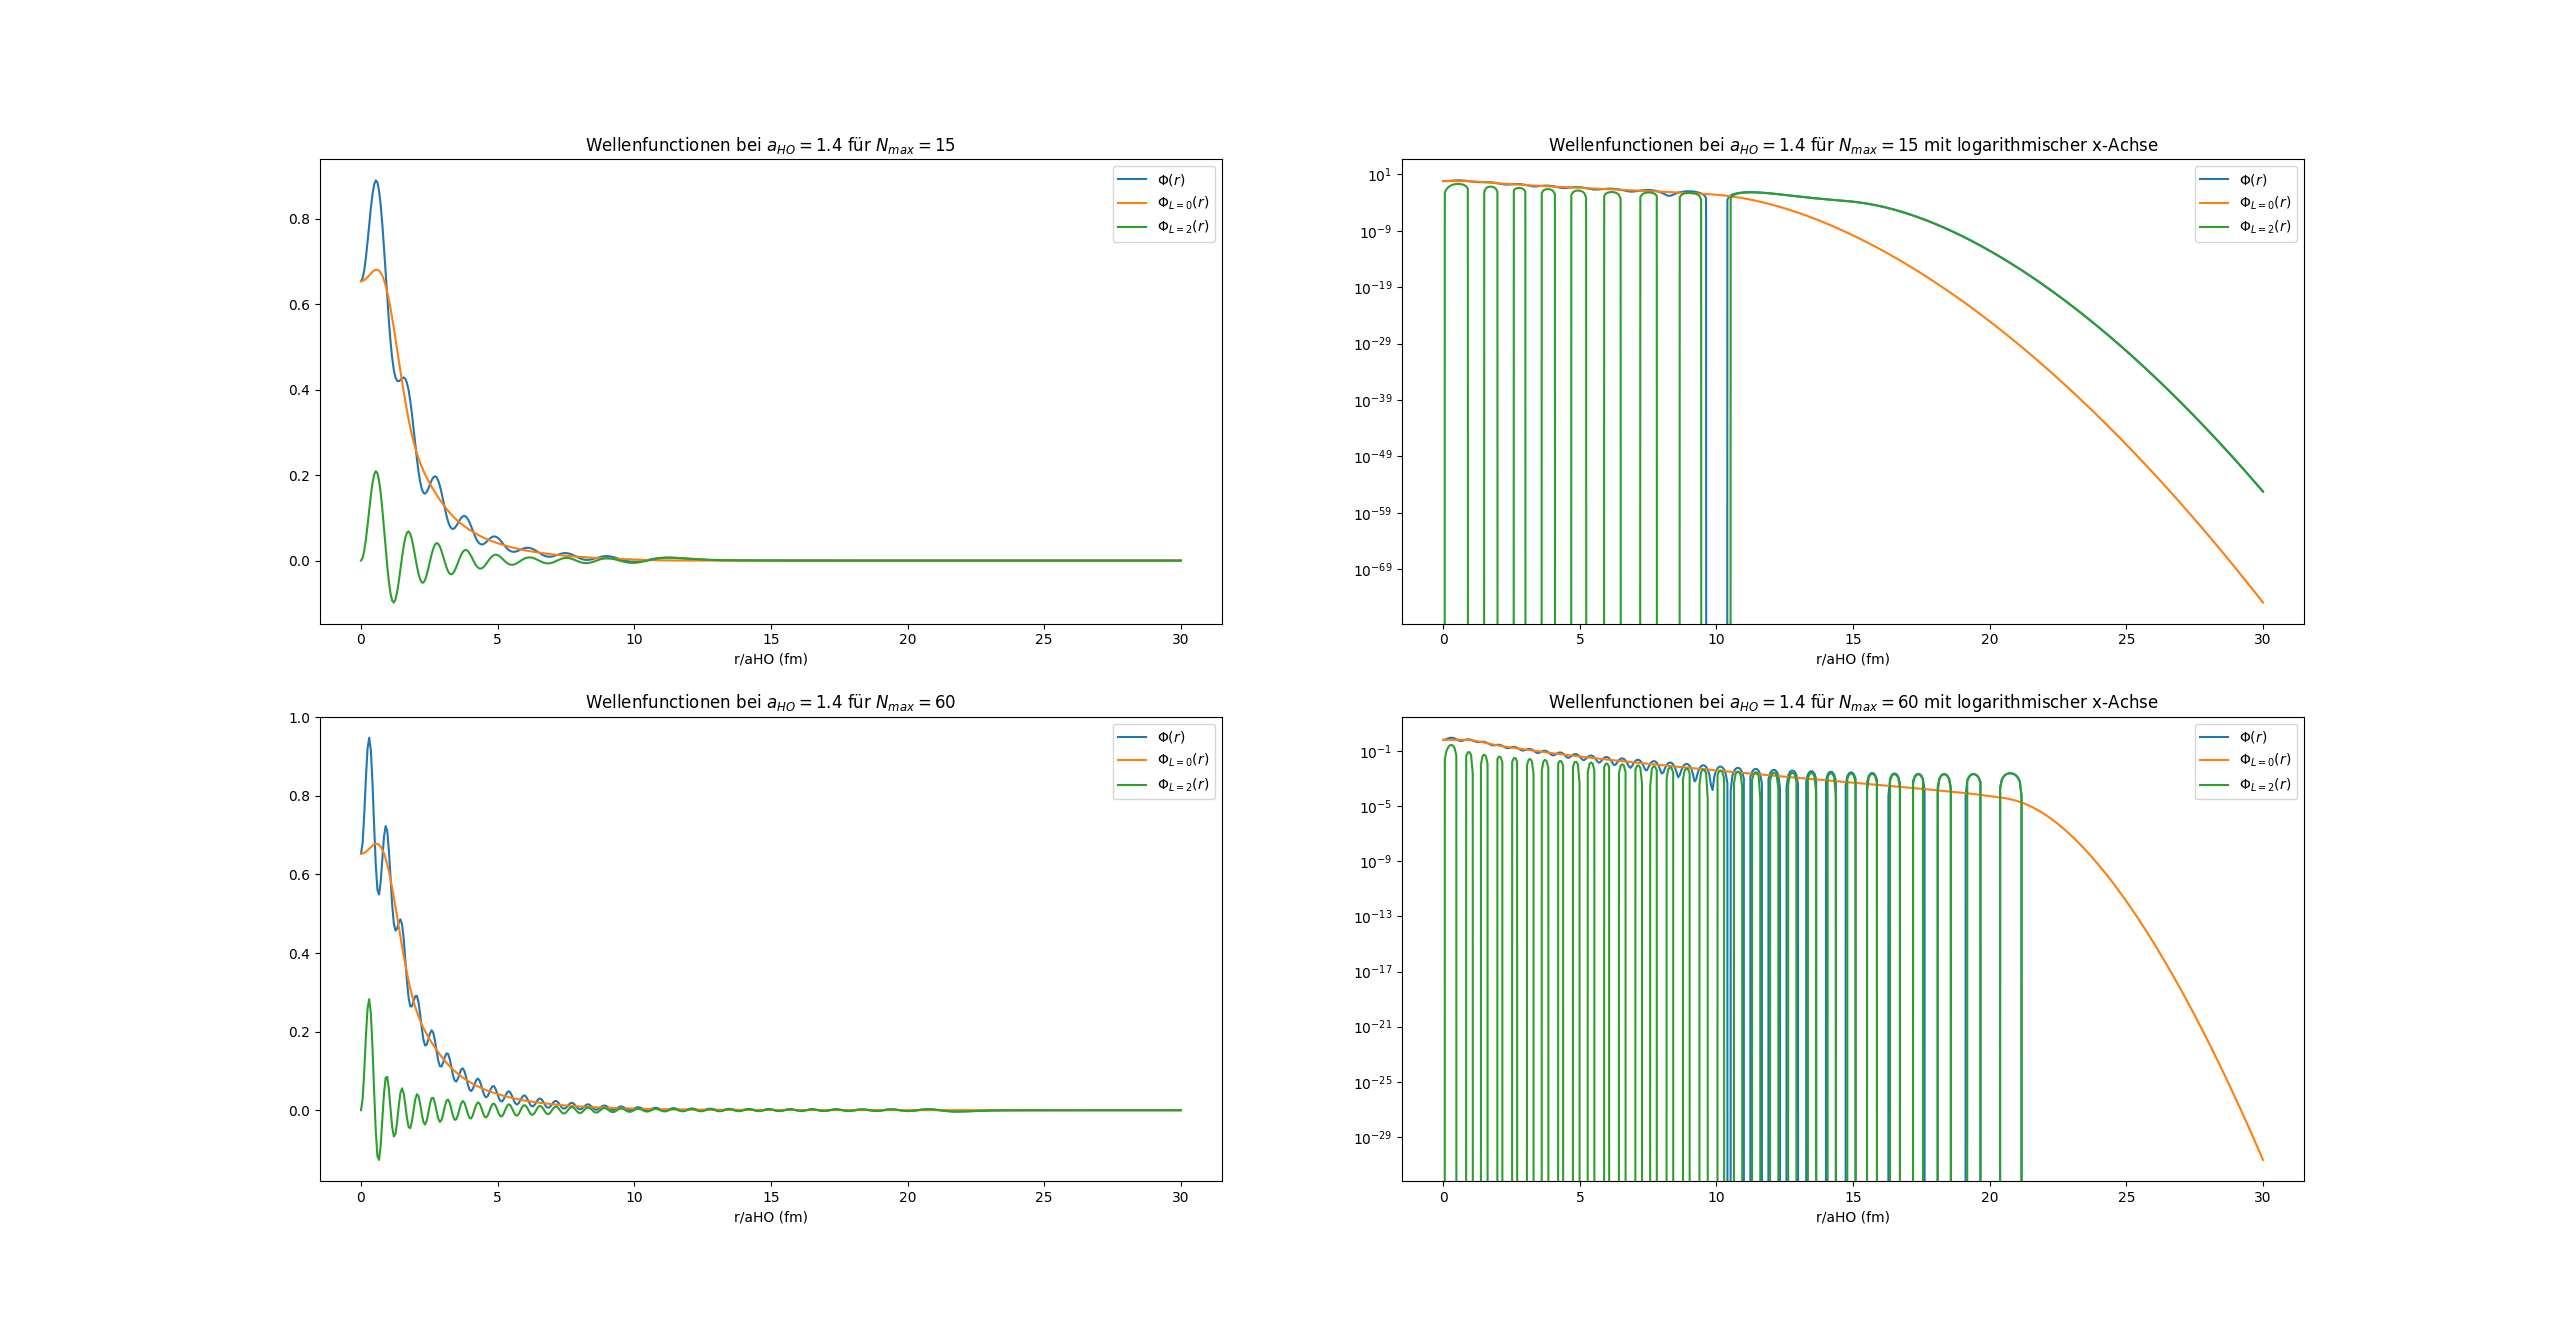
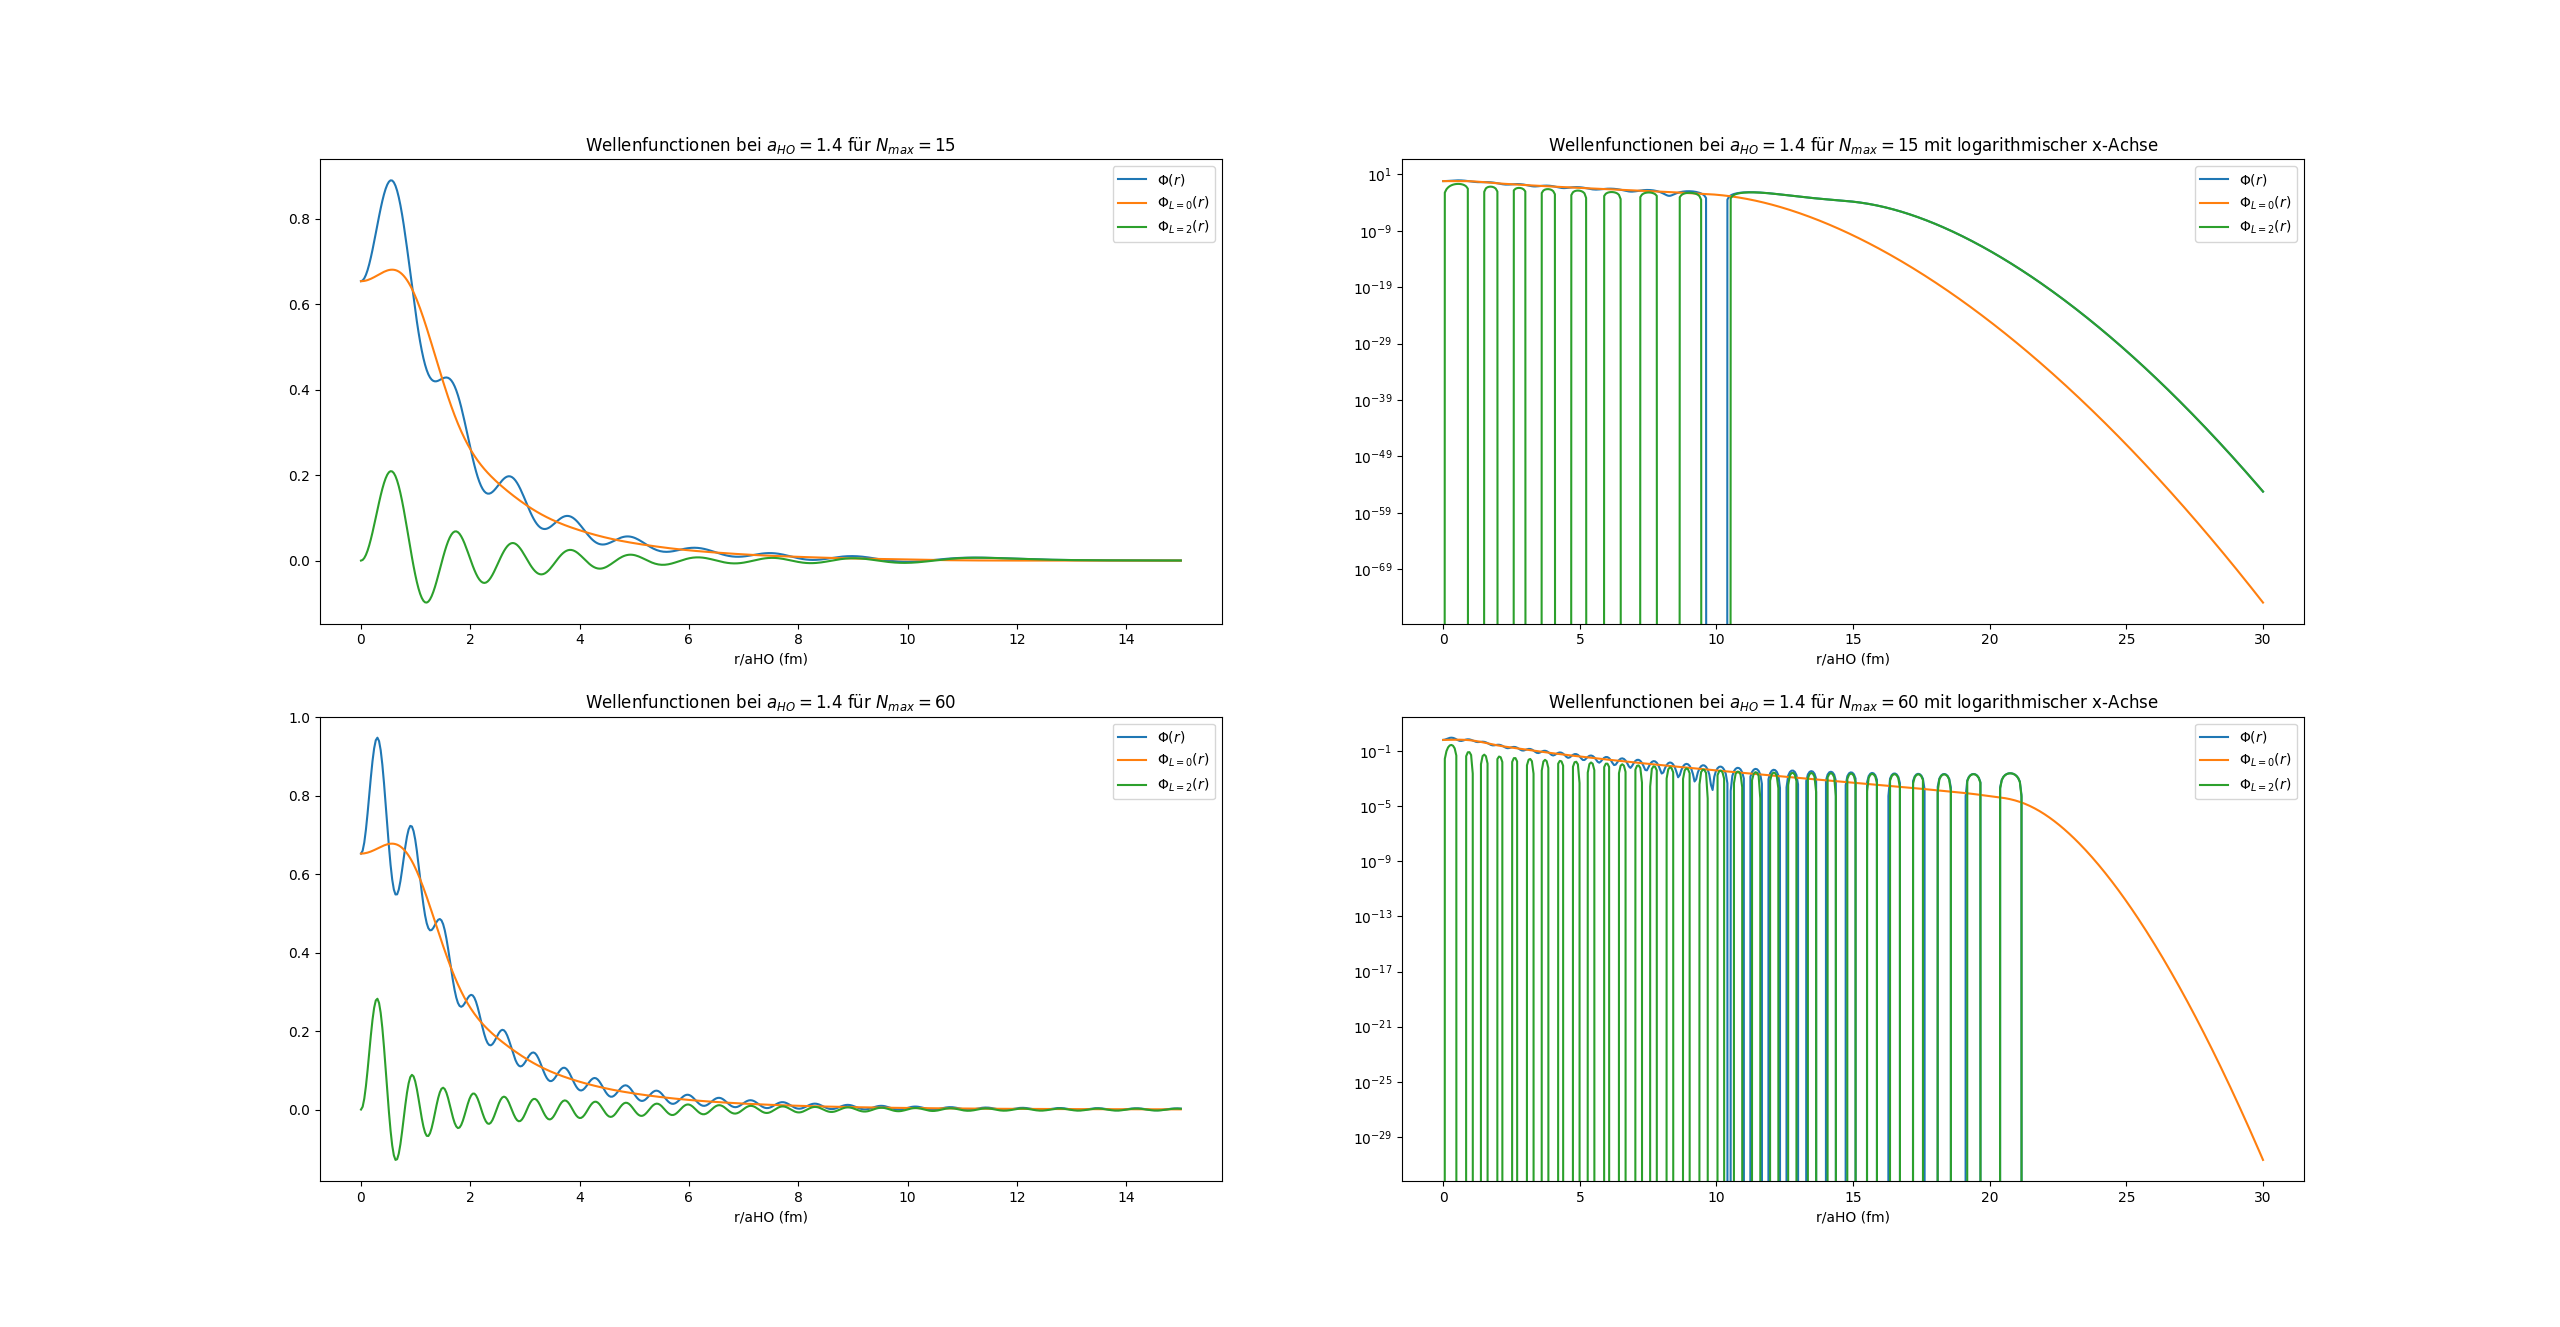
new plot and integration test

diff --git a/position-space_wavefunc.py b/position-space_wavefunc.py
@@ -1,6 +1,7 @@
 import numpy as np
 from matplotlib import pyplot as plt
 from scipy.special import genlaguerre, gamma
+from scipy.integrate import quad
 from create_matrix import mat
 from sys import exit
 
@@ -59,9 +60,15 @@ def deuteron_wavefunc(Nmax, aHO, r):
 
 
 plt.figure()
-x_model = np.linspace(0, 30, 500)
+
+x_model = np.linspace(0, 15, 500)
+x_model_log = np.linspace(0, 30, 500)
 wavefunc = deuteron_wavefunc(15, 1.4, x_model)
 wavefunc_model, wavefunc_L0_model, wavefunc_L2_model = wavefunc[0], wavefunc[1], wavefunc[2]
+wavefunc_log = deuteron_wavefunc(15, 1.4, x_model_log)
+wavefunc_model_log, wavefunc_L0_model_log, wavefunc_L2_model_log = wavefunc_log[0], wavefunc_log[1], wavefunc_log[2]
+
+print(np.sum(wavefunc_L0_model**2))
 
 plt.subplot(221)
 plt.plot(x_model, wavefunc_model)
@@ -73,15 +80,18 @@ plt.xlabel('r/aHO (fm)')
 
 
 plt.subplot(222)
-plt.semilogy(x_model, wavefunc_model)
-plt.semilogy(x_model, wavefunc_L0_model)
-plt.semilogy(x_model, wavefunc_L2_model)
+
+plt.semilogy(x_model_log, wavefunc_model_log)
+plt.semilogy(x_model_log, wavefunc_L0_model_log)
+plt.semilogy(x_model_log, wavefunc_L2_model_log)
 plt.title('Wellenfunctionen bei $a_{HO} = 1.4$ für $N_{max} = 15$ mit logarithmischer x-Achse')
 plt.legend(['$\Phi(r)$', '$\Phi_{L=0}(r)$', '$\Phi_{L=2}(r)$'])
 plt.xlabel('r/aHO (fm)')
 
 wavefunc = deuteron_wavefunc(60, 1.4, x_model)
 wavefunc_model, wavefunc_L0_model, wavefunc_L2_model = wavefunc[0], wavefunc[1], wavefunc[2]
+wavefunc_log = deuteron_wavefunc(60, 1.4, x_model_log)
+wavefunc_model_log, wavefunc_L0_model_log, wavefunc_L2_model_log = wavefunc_log[0], wavefunc_log[1], wavefunc_log[2]
 
 plt.subplot(223)
 plt.plot(x_model, wavefunc_model)
@@ -93,9 +103,9 @@ plt.xlabel('r/aHO (fm)')
 
 
 plt.subplot(224)
-plt.semilogy(x_model, wavefunc_model)
-plt.semilogy(x_model, wavefunc_L0_model)
-plt.semilogy(x_model, wavefunc_L2_model)
+plt.semilogy(x_model_log, wavefunc_model_log)
+plt.semilogy(x_model_log, wavefunc_L0_model_log)
+plt.semilogy(x_model_log, wavefunc_L2_model_log)
 plt.title('Wellenfunctionen bei $a_{HO} = 1.4$ für $N_{max} = 60$ mit logarithmischer x-Achse')
 plt.legend(['$\Phi(r)$', '$\Phi_{L=0}(r)$', '$\Phi_{L=2}(r)$'])
 plt.xlabel('r/aHO (fm)')
